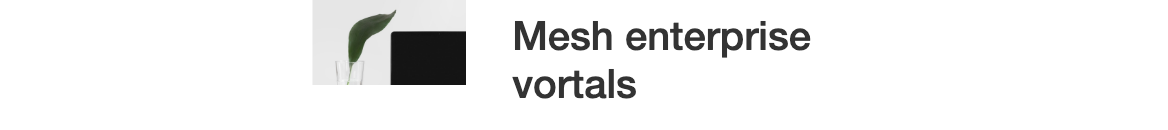
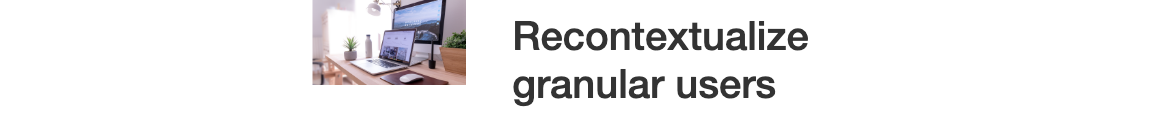
cms integration done

Changed region(s): [[0.2466, 0.0, 0.4007, 0.6769], [0.4315, 0.1538, 0.7089, 0.4308], [0.4315, 0.5231, 0.6781, 0.8308]]

diff --git a/.slicemachine/assets/slices/TextImageRight/index.stories.js b/.slicemachine/assets/slices/TextImageRight/index.stories.js
@@ -5,11 +5,11 @@ export default {
 }
 
 
-export const _DefaultSlice = () => <MyComponent slice={{"variation":"default-slice","name":"Default slice","slice_type":"text_image_right","items":[{"richtext":[{"type":"paragraph","text":"Ex est in quis enim id occaecat ipsum labore dolor culpa commodo nulla.","spans":[]}]},{"richtext":[{"type":"paragraph","text":"Exercitation minim culpa dolor ipsum ullamco laborum mollit aliquip ipsum irure irure consectetur est do sunt.","spans":[]}]},{"richtext":[{"type":"paragraph","text":"Et deserunt cupidatat dolor excepteur ex exercitation sit culpa quis incididunt ut minim labore. Adipisicing nulla labore fugiat dolor anim nostrud minim eu aliquip ea in deserunt.","spans":[]}]}],"primary":{"textField":[{"type":"heading1","text":"Generate dynamic methodologies","spans":[]}],"image":{"dimensions":{"width":900,"height":500},"alt":"Placeholder image","copyright":null,"url":"https://images.unsplash.com/photo-1576662712957-9c79ae1280f8?w=900&h=500&fit=crop"}},"id":"_DefaultSlice"}} />
+export const _DefaultSlice = () => <MyComponent slice={{"variation":"default-slice","name":"Default slice","slice_type":"text_image_right","items":[{"richtext":[{"type":"paragraph","text":"Eiusmod veniam laboris nostrud culpa laboris eiusmod et occaecat mollit.","spans":[]}]},{"richtext":[{"type":"paragraph","text":"Aute anim fugiat aliquip. Cillum et enim non proident ex fugiat elit Lorem velit tempor veniam pariatur ullamco commodo. Non eiusmod ullamco dolore est mollit in nisi officia incididunt qui deserunt elit amet id consectetur.","spans":[]}]},{"richtext":[{"type":"paragraph","text":"Veniam consequat laboris proident aliquip ad nulla mollit.","spans":[]}]},{"richtext":[{"type":"paragraph","text":"Ea laboris elit non sit eu aute quis enim mollit est consectetur. Exercitation sit irure aliqua cillum.","spans":[]}]},{"richtext":[{"type":"paragraph","text":"Est mollit culpa adipisicing eu esse pariatur aute consectetur deserunt minim. Aliquip elit sit ut aliquip laborum nulla do nisi consequat sunt cillum ullamco aliqua eiusmod elit.","spans":[]}]}],"primary":{"textField":[{"type":"heading1","text":"Reinvent plug-and-play content","spans":[]}],"image":{"dimensions":{"width":900,"height":500},"alt":"Placeholder image","copyright":null,"url":"https://images.unsplash.com/photo-1498050108023-c5249f4df085?w=900&h=500&fit=crop"}},"id":"_DefaultSlice"}} />
 _DefaultSlice.storyName = 'Default slice'
 
-export const _TextImageLeft = () => <MyComponent slice={{"variation":"textImageLeft","name":"TextImageLeft","slice_type":"text_image_right","items":[],"primary":{"textField":[{"type":"heading1","text":"Mesh enterprise vortals","spans":[]}],"image":{"dimensions":{"width":900,"height":500},"alt":"Placeholder image","copyright":null,"url":"https://images.unsplash.com/photo-1471897488648-5eae4ac6686b?w=900&h=500&fit=crop"}},"id":"_TextImageLeft"}} />
+export const _TextImageLeft = () => <MyComponent slice={{"variation":"textImageLeft","name":"TextImageLeft","slice_type":"text_image_right","items":[],"primary":{"textField":[{"type":"heading1","text":"Recontextualize granular users","spans":[]}],"image":{"dimensions":{"width":900,"height":500},"alt":"Placeholder image","copyright":null,"url":"https://images.unsplash.com/photo-1499951360447-b19be8fe80f5?w=900&h=500&fit=crop"}},"id":"_TextImageLeft"}} />
 _TextImageLeft.storyName = 'TextImageLeft'
 
-export const _TitleImage = () => <MyComponent slice={{"variation":"titleImage","name":"TitleImage","slice_type":"text_image_right","items":[],"primary":{"title":[{"type":"paragraph","text":"Mollit quis nostrud proident amet culpa adipisicing ex laborum exercitation magna consequat non qui minim. Proident deserunt eiusmod ipsum. Dolor veniam qui qui enim consequat esse ex do in minim veniam magna ipsum.","spans":[]}],"image":{"dimensions":{"width":900,"height":500},"alt":"Placeholder image","copyright":null,"url":"https://images.unsplash.com/photo-1496181133206-80ce9b88a853?w=900&h=500&fit=crop"}},"id":"_TitleImage"}} />
+export const _TitleImage = () => <MyComponent slice={{"variation":"titleImage","name":"TitleImage","slice_type":"text_image_right","items":[],"primary":{"title":[{"type":"paragraph","text":"Occaecat cupidatat esse pariatur id amet quis excepteur. In laborum commodo ullamco minim nisi. Officia est deserunt veniam.","spans":[]}],"image":{"dimensions":{"width":900,"height":500},"alt":"Placeholder image","copyright":null,"url":"https://images.unsplash.com/photo-1560457079-9a6532ccb118?w=900&h=500&fit=crop"}},"id":"_TitleImage"}} />
 _TitleImage.storyName = 'TitleImage'

diff --git a/slices/TextImageRight/index.js b/slices/TextImageRight/index.js
@@ -2,34 +2,45 @@ import React from 'react'
 import { RichText } from 'prismic-reactjs'
 import Image from 'next/image'
 
+import Card from 'react-bootstrap/Card'
+
 const TextImageRight = ({ slice }) => (
-  <section className={`pt-0 ${slice.variation}`}>
-    <div className="top-title">
-      {slice.variation === 'titleImage' ? (
-        <RichText render={slice.primary.title} />
-      ) : null}
-    </div>
-    <div className={slice.variation !== 'default-slice' ? `image-desc` : `overlay-image`} >
-      {slice.variation !== 'titleImage' ? (
-        <RichText render={slice.primary.textField} />
-      ) : null}
-    </div>
-    <div>
-    {slice.variation !== 'default-slice' ? (
-      <Image src={slice.primary.image.url} alt={slice.primary.image.alt} width={200} height={100} objectFit="contain" unoptimized/>
-      ) : (
-      <Image src={slice.primary.image.url} alt={slice.primary.image.alt} layout='fill' objectFit="contain" unoptimized/>
-      ) }
-    </div>
+  <section className={`pt-0 col-12 ${slice.variation}`}>
+    {slice.variation !== 'default-slice' ?
+      <React.Fragment>
+        <div className="top-title">
+          {slice.variation === 'titleImage' ? (
+            <RichText render={slice.primary.title} />
+          ) : null}
+        </div>
+        <div className={slice.variation !== 'default-slice' ? `image-desc` : `overlay-image`} >
+          {slice.variation !== 'titleImage' ? (
+            <RichText render={slice.primary.textField} />
+          ) : null}
+        </div>
+        <div>
+          <Image src={slice.primary.image.url} alt={slice.primary.image.alt} width={1000} objectFit="contain" unoptimized/>
+        </div>
+      </React.Fragment>
+      :
+      <Card className="bg-dark text-white text-center m-auto">
+        <Card.Img src={slice.primary.image.url} alt={slice.primary.image.alt} style={{ height: `600px`, width: `600px` }} />
+        <Card.ImgOverlay>
+          <Card.Text>
+            {slice.variation !== 'titleImage' ? (
+            <RichText render={slice.primary.textField} />
+          ) : null}
+          </Card.Text>
+        </Card.ImgOverlay>
+      </Card>
+    }
     <style jsx global>{`
       .default-slice {
         flex-direction: row;
-        height: 130px;
         display: flex;
       }
       .textImageLeft {
         flex-direction: row-reverse;
-        height: 130px;
         display: flex;
       }
       .titleImage {

diff --git a/.slicemachine/assets/slices/RichTextModule/index.stories.js b/.slicemachine/assets/slices/RichTextModule/index.stories.js
@@ -5,5 +5,5 @@ export default {
 }
 
 
-export const _DefaultSlice = () => <MyComponent slice={{"variation":"default-slice","name":"Default slice","slice_type":"rich_text_module","items":[{"richtext":[{"type":"paragraph","text":"Consequat laboris ex ut anim quis velit. Sunt anim duis do est adipisicing.","spans":[]}]},{"richtext":[{"type":"paragraph","text":"Reprehenderit nulla laborum irure. Eiusmod aute excepteur laboris cillum et exercitation.","spans":[]}]},{"richtext":[{"type":"paragraph","text":"Deserunt id veniam consequat eiusmod eiusmod irure sit proident duis. Cupidatat mollit elit mollit esse ex exercitation laborum enim elit Lorem mollit proident ipsum anim. Minim consectetur amet eu est culpa nisi officia cupidatat voluptate do est ullamco ut.","spans":[]}]},{"richtext":[{"type":"paragraph","text":"Anim quis in ut minim. Do esse id laborum mollit voluptate dolore commodo labore excepteur laboris dolor culpa ea. Nulla dolore est esse.","spans":[]}]},{"richtext":[{"type":"paragraph","text":"Consectetur voluptate consequat aliquip adipisicing. Aliqua Lorem incididunt Lorem ea enim. Et sunt labore anim nostrud ut consequat tempor ipsum duis irure sunt ex.","spans":[]}]}],"primary":{},"id":"_DefaultSlice"}} />
+export const _DefaultSlice = () => <MyComponent slice={{"variation":"default-slice","name":"Default slice","slice_type":"rich_text_module","items":[{"richtext":[{"type":"paragraph","text":"Cupidatat fugiat nostrud aliquip enim sit qui deserunt. Exercitation ad ut commodo quis et duis officia id laborum ullamco voluptate do et pariatur non. Sit laboris velit pariatur id ipsum non sunt enim ad eiusmod labore cillum et duis.","spans":[]}]},{"richtext":[{"type":"paragraph","text":"Elit aliqua anim eiusmod labore commodo eu dolore ex. Incididunt irure consequat incididunt cillum quis aliquip anim in magna anim nulla amet nisi voluptate. Non qui laboris elit culpa enim.","spans":[]}]}],"primary":{},"id":"_DefaultSlice"}} />
 _DefaultSlice.storyName = 'Default slice'

diff --git a/utils/prismicHelpers.js b/utils/prismicHelpers.js
@@ -1,46 +1,30 @@
-// ~/utils/prismicHelpers.js
 import Prismic from '@prismicio/client'
 import Link from 'next/link'
 import {
   apiEndpoint,
   accessToken,
   linkResolver,
-  hrefResolver,
-  Router
-} from '../prismicConfiguration'
+  hrefResolver
+}from '../prismicConfiguration'
 
 // Helper function to convert Prismic Rich Text links to Next/Link components
 export const customLink = (type, element, content, children, index) => (
-  <Link
-    key={index}
-    href={linkResolver(element.data)}
-  >
+  <Link key={element.data.id} href={hrefResolver(element.data)} as={linkResolver(element.data)}>
     <a>{content}</a>
   </Link>
 )
 
-// Helper function to convert Prismic Rich Text links to Next/Link components
-// export const customLink = (type, element, content, children, index) => (
-//   <Link key={element.data.id} href={hrefResolver(element.data)} as={linkResolver(element.data)}>
-//     <a>{content}</a>
-//   </Link>
-// )
-
-// -- @prismicio/client initialisation
-// Initialises the Prismic Client that's used for querying the API and passes it any query options.
+// Client method to query documents from the Prismic repo
 export const Client = (req = null) => (
-  Prismic.client(apiEndpoint, createClientOptions(req, accessToken, Router))
-);
+  Prismic.client(apiEndpoint, createClientOptions(req, accessToken))
+)
 
-// Options to be passed to the Client
-const createClientOptions = (req = null, prismicAccessToken = null, routes = null) => {
+const createClientOptions = (req = null, prismicAccessToken = null) => {
   const reqOption = req ? { req } : {}
   const accessTokenOption = prismicAccessToken ? { accessToken: prismicAccessToken } : {}
-  const routesOption = routes ? { routes: Router.routes } : {}
   return {
     ...reqOption,
     ...accessTokenOption,
-    ...routesOption,
   }
 }
 

diff --git a/pages/privacy-policy.js b/pages/privacy-policy.js
@@ -5,23 +5,23 @@ import Link from 'next/link'
 import { Client } from '../utils/prismicHelpers'
 import SliceZone from '../components/slices/sliceZone'
 
-const HomePage = ({ doc, menu }) => {
+const PrivacyPolicy = ({ doc, menu }) => {
   if (doc && doc.data) {
     return (
-      <div className='homepage'>
+      <div className='privacypolicy text-left'>
         <ul>
+          <li>
+            <Link href="/">
+              <a>Home</a>
+            </Link>
+          </li>
           <li>
             <Link href="/contact">
               <a>Contact Us</a>
             </Link>
           </li>
-          <li>
-            <Link href="/privacy-policy">
-              <a>Privacy Policy</a>
-            </Link>
-          </li>
         </ul>
-        <SliceZone sliceZone={doc.data.slices} />
+        <SliceZone sliceZone={doc.data.body} />
       </div>
     )
   }
@@ -36,7 +36,7 @@ export async function getStaticProps({ preview = null, previewData = {} }) {
 
   const client = Client()
 
-  const doc = await client.getSingle('home-page', ref ? { ref } : null) || {}
+  const doc = await client.getSingle('privacy_policy', ref ? { ref } : null) || {}
 
   return {
     props: {
@@ -46,4 +46,4 @@ export async function getStaticProps({ preview = null, previewData = {} }) {
   }
 }
 
-export default HomePage
+export default PrivacyPolicy

diff --git a/pages/contact.js b/pages/contact.js
@@ -5,14 +5,14 @@ import Link from 'next/link'
 import { Client } from '../utils/prismicHelpers'
 import SliceZone from '../components/slices/sliceZone'
 
-const HomePage = ({ doc, menu }) => {
+const Contact = ({ doc, menu }) => {
   if (doc && doc.data) {
     return (
-      <div className='homepage'>
+      <div className='contact text-left'>
         <ul>
           <li>
-            <Link href="/contact">
-              <a>Contact Us</a>
+            <Link href="/">
+              <a>Home</a>
             </Link>
           </li>
           <li>
@@ -21,7 +21,7 @@ const HomePage = ({ doc, menu }) => {
             </Link>
           </li>
         </ul>
-        <SliceZone sliceZone={doc.data.slices} />
+        <SliceZone sliceZone={doc.data.body} />
       </div>
     )
   }
@@ -36,7 +36,7 @@ export async function getStaticProps({ preview = null, previewData = {} }) {
 
   const client = Client()
 
-  const doc = await client.getSingle('home-page', ref ? { ref } : null) || {}
+  const doc = await client.getSingle('contact', ref ? { ref } : null) || {}
 
   return {
     props: {
@@ -46,4 +46,4 @@ export async function getStaticProps({ preview = null, previewData = {} }) {
   }
 }
 
-export default HomePage
+export default Contact

diff --git a/components/slices/SliceZone.js b/components/slices/SliceZone.js
@@ -1,0 +1,23 @@
+import React from 'react'
+import TextImageRight from '../../slices/TextImageRight/index.js'
+import RichTextModule from '../../slices/RichTextModule/index.js'
+import ContactForm from '../../slices/ContactForm/index.js'
+
+const SliceZone = ({ sliceZone }) => (
+  <div className="container">
+    {sliceZone.map((slice, index) => {
+      switch (slice.slice_type) {
+        case ('text_image_right'):
+          return <TextImageRight slice={slice} key={`slice-${index}`} />
+        case ('rich_text_module'):
+          return <RichTextModule slice={slice} key={`slice-${index}`} />
+        case ('contact_form'):
+          return <ContactForm slice={slice} key={`slice-${index}`} />
+        default:
+          return null
+      }
+    })}
+  </div>
+)
+
+export default SliceZone

diff --git a/prismicConfiguration.js b/prismicConfiguration.js
@@ -1,7 +1,5 @@
-// -- Prismic Repo Name
-export const repoName = 'project-prama'
-
 // -- Prismic API endpoint
+export const repoName = 'project-prama'
 // Determines which repository to query and fetch data from
 // Configure your site's access point here
 export const apiEndpoint = `https://${repoName}.cdn.prismic.io/api/v2`
@@ -26,14 +24,3 @@ export const hrefResolver = (doc) => {
   }
   return '/'
 }
-
-// -- Route Resolver rules
-// Manages the url links to internal Prismic documents two levels deep (optionals)
-export const Router = {
-  routes: [
-    {
-      "type":"page",
-      "path":"/:uid"
-    },
-  ]
-};

diff --git a/.slicemachine/assets/slices/ContactForm/index.stories.js b/.slicemachine/assets/slices/ContactForm/index.stories.js
@@ -5,5 +5,5 @@ export default {
 }
 
 
-export const _DefaultSlice = () => <MyComponent slice={{"variation":"default-slice","name":"Default slice","slice_type":"contact_form","items":[],"primary":{"name":"enhance back-end technologies","email":"whiteboard seamless models"},"id":"_DefaultSlice"}} />
+export const _DefaultSlice = () => <MyComponent slice={{"variation":"default-slice","name":"Default slice","slice_type":"contact_form","items":[],"primary":{"name":"reintermediate 24/365 platforms","email":"deliver proactive technologies"},"id":"_DefaultSlice"}} />
 _DefaultSlice.storyName = 'Default slice'

diff --git a/slices/ContactForm/index.js b/slices/ContactForm/index.js
@@ -5,8 +5,7 @@ import Form from 'react-bootstrap/Form'
 import 'bootstrap/dist/css/bootstrap.min.css';
 
 const ContactForm = ({ slice }) => (
-  <section>
-    {console.log(slice)}
+  <section className={`col-12`}>
     <Form className={`text-left`}>
       <Form.Group className="mb-3" controlId="formBasicName">
         <Form.Label>Name</Form.Label>
@@ -27,7 +26,6 @@ const ContactForm = ({ slice }) => (
         section {
           max-width: 600px;
           margin: 4em auto;
-          text-align: center;
         }
         .title {
           color: #8592e0;

diff --git a/slices/RichTextModule/index.js b/slices/RichTextModule/index.js
@@ -2,16 +2,11 @@ import React from 'react'
 import { RichText } from 'prismic-reactjs'
 
 const RichTextModule = ({ slice }) => (
-  <section>
-    <div className="title">
+  <section className={`col-12`}>
+    <div className="title text-capitalize">
       { slice?.items?.map((item, i) => <RichText render={item.richtext} />) }
     </div>
     <style jsx>{`
-        section {
-          max-width: 600px;
-          margin: 4em auto;
-          text-align: center;
-        }
         .title {
           color: #8592e0;
         }

diff --git a/utils/queries.js b/utils/queries.js
@@ -1,6 +1,5 @@
 import { Client } from './prismicHelpers'
 
-// ~/utils/queries.js
 async function fetchDocs(page = 1, routes = []) {
   const response = await Client().query('', { pageSize: 100, lang: '*', page });
   const allRoutes = routes.concat(response.results);
@@ -17,7 +16,6 @@ export const queryRepeatableDocuments = async (filter) => {
   const allRoutes = await fetchDocs()
   return allRoutes.filter(filter)
 }
-
 
 export const homePageQuery = async () => {
   const allRoutes = await fetchDocs()
